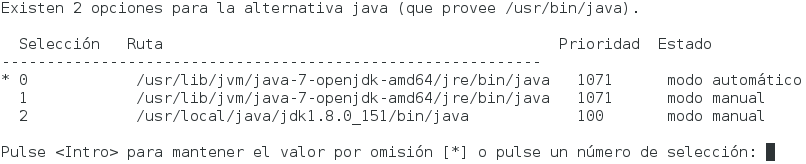
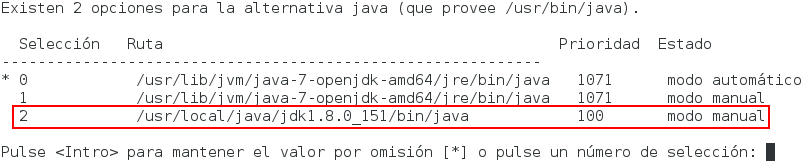
Changes regarding install script. Also updated spanish installation manual

Changed region(s): [[0.0, 0.7622, 0.9615, 0.7927], [0.0, 0.6402, 0.9615, 0.6707]]

diff --git a/docs/installation-manual/manual_instalacion.md b/docs/installation-manual/manual_instalacion.md
@@ -5,8 +5,8 @@
 Antes de comenzar la instalación de _Magma Playout_ se debe contar con 
 una computadora con las siguientes características mínimas:  
   * Procesador de 2 núcleos de 2.6 GHz
-  * 8 Gb de memoria RAM
-  * 500 Gb de almacenamiento
+  * 4 Gb de memoria RAM
+  * 50 Gb de almacenamiento (influye directamente en la cantidad de medios disponibles para reproducir)
   * Sistema operativo Debian 8  
   * Conexión a internet activa
 
@@ -14,13 +14,13 @@ una computadora con las siguientes características mínimas:
 ## Instalación
 
 El proceso de instalación de _Magma Playout_ se realiza en su totalidad desde
-una terminal y tarda aproximadamente 45 minutos en completar.  
-A continuación se describen los pasos para instalar el sistema bajando todo lo 
-necesario de internet o desde el archivo **MagmaPlayout.zip**.
+una terminal y tarda aproximadamente 45 minutos en completar, aunque depende de las velocidades del procesador y de la conexión a internet.  
+A continuación se describen los pasos para instalar el sistema.  
 
+### Instalar el comando _sudo_ 
 
-1. El primer paso es instalar el comando _sudo_, configurarlo y reiniciar la computadora.  
-Desde una terminal ejecutar los siguientes comandos:
+Abrir una terminal y ejecutar lo comandos descritos a continuación.  
+Tener en cuenta que tienen que ser modificados según el ambiente en el que se va a instalar.  
 
 ```bash
 su  
@@ -32,9 +32,9 @@ usermod -aG sudo <username>
 reboot
 ``` 
 
-### Instalación desde internet
+### Descargar el instalador de Magma Playout
 
-Abrir una terminal y ejecutar los siguientes comandos:  
+Abrir una terminal y ejecutar lo comandos descritos a continuación.  
 
 ```bash
 cd
@@ -44,15 +44,13 @@ cd mp-installer
 ./install.sh
 ```
 
-### Instalación desde MagmaPlayout.zip
+Durante la instalación se requiere la interacción del usuario para las siguientes acciones:
+1. Ingresar la contraseña del usuario.
+1. Seleccionar la instalación de java cuyo path sea "/usr/local/java/jdk1.8.0_151/java".  
+> ![java_alternatives](install_imgs/java_alternatives.png)
+3. Ingresar la contraseña de administración de mariadb-server cuando se presente la siguiente pantalla:  
+> 
 
-Copiar el archivo _MagmaPlayout.zip_ al directorio _~/_, abrir una terminal 
-y ejecutar los siguientes comandos:  
-
-```bash
-cd ~/mp-installer/
-./install.sh
-```
 
 ## Configuración
 
@@ -73,34 +71,34 @@ A continuación se describen las claves de cada archivo de configuración.
 # ------------------------------- #
 
 # Duración en minutos a mantener en la lista de melted
-melted_playlist_max_duration: 120 
+melted_playlist_max_duration=120 
 # Frecuencia de trabajo del thread que vigila el tiempo restante 
 # de la lista de melted
-melted_appender_worker_freq: 5
+melted_appender_worker_freq=5
 # Directorio a la instalación de melt
-melt_path: /usr/bin/melt/melt
+melt_path=/usr/bin/melt/melt
 # Directorio al media por defecto. Debe ser un directorio válido a una imágen.
-default_media_path: /usr/local/magma-playout/default.mlt
+default_media_path=/usr/local/magma-playout/default.mlt
 # Directorio temporal donde se van a poner los archivos .mlt 
 # "espaciadores" con el media por defecto
-mlt_spacers_path: /usr/local/magma-playout/spacers/
+mlt_spacers_path=/usr/local/magma-playout/spacers/
 
 # ------------------------------- #
 # mp-devourer config ------------ #
 # ------------------------------- #
 
 # FPS al cual se van a transcodear todos los medias cargados
-medias_fps: 60
+medias_fps=60
 # Directorio de entrada del cual cargar los medias al sistema
-devourer_input_dir: EDIT ME!
+devourer_input_dir= EDIT ME!
 # Directorio de salida donde se guardan los medias transcodeados
-devourer_output_dir: EDIT ME!
+devourer_output_dir= EDIT ME!
 # Directorio de thumbnails del frontend
-devourer_thumb_dir: EDIT ME!
+devourer_thumb_dir= EDIT ME!
 # Directorio de la instalación del MLT Framework
-mlt_framework_dir: EDIT ME!
+mlt_framework_dir= EDIT ME!
 # Argumentos de transcodificación
-devourer_ffmpeg_args: -f avi -c:v libx264 -qp 0
+devourer_ffmpeg_args= -f avi -c:v libx264 -qp 0
 ```
 
 Existen más claves configurables que permiten generar una instalación distribuida en más de una PC. El modo
